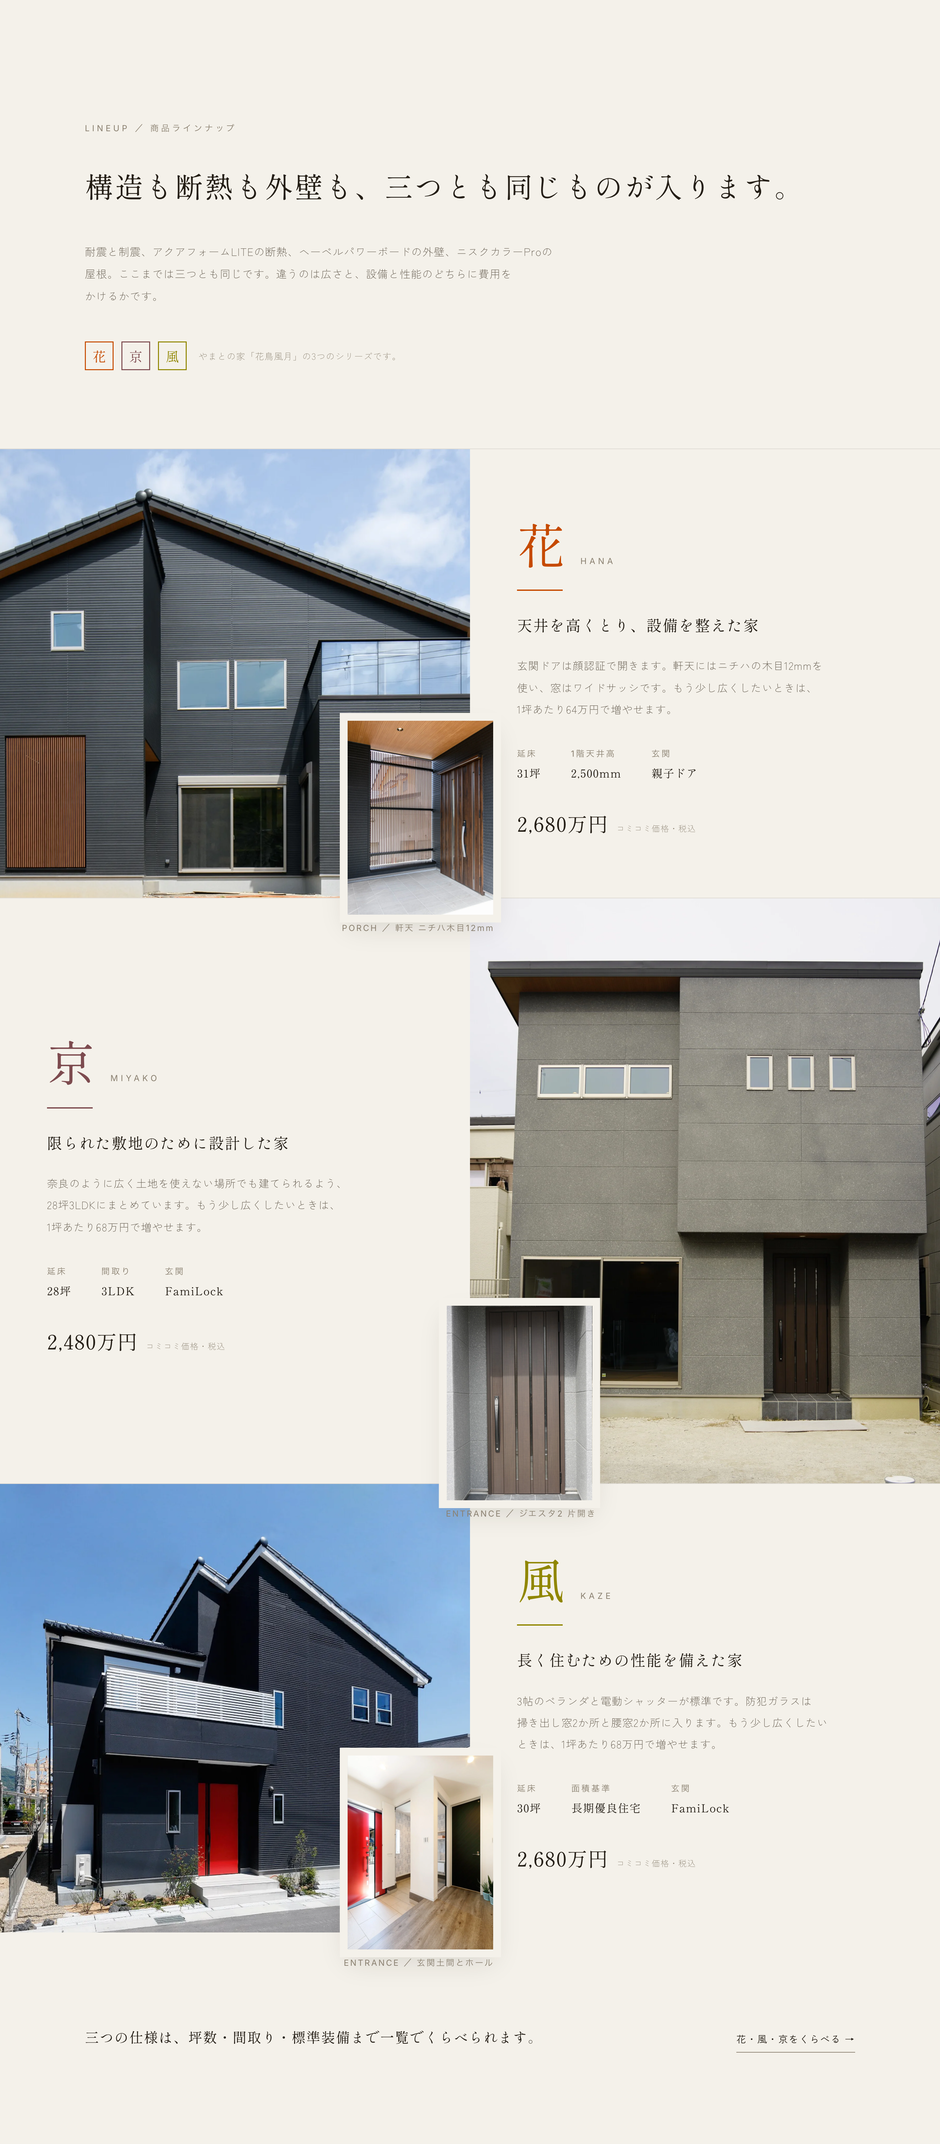
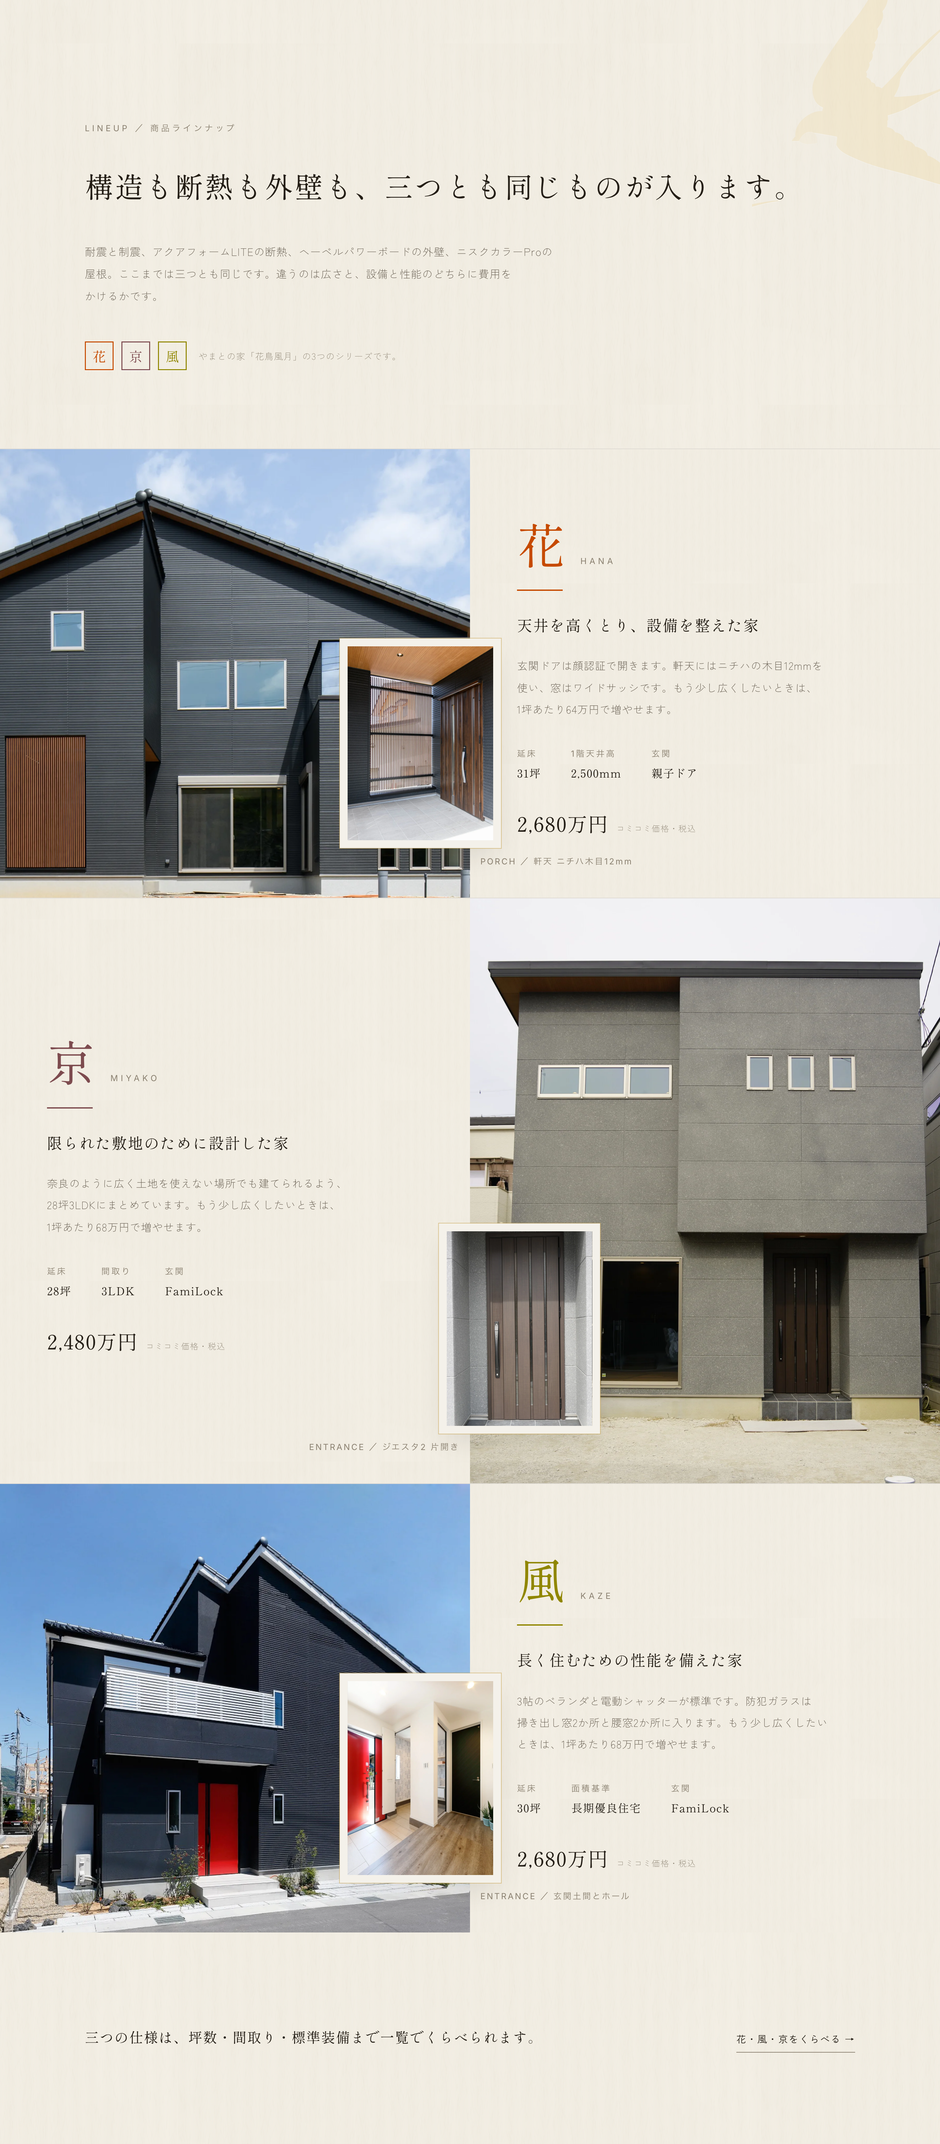
lineup: 地を紙にし、箔の燕と金の毛罫を入れた（FV表紙と同じ質を生成りの面で）
べた塗り #F4F1EA をやめ、page_kinari_letter_2400.webp を各ブロックに cover で敷く。
生成りを .62 で重ねて漉きムラを抑えた（そのままだと縞に見える）。

FV表紙の上質さの正体は テクスチャ＋箔の起伏＋隅から食い込む文様。
表紙は紅の面で金が立つので、こちらは生成りの面として同じ金を .26 で置く。
swallow1_foil を右上から食い込ませ、小図版の縁に金の毛罫を1本、
角印は紙に押した印影（内側の淡い影＋下側の白）に。

キャプションは必ず紙の側へ寄せる。写真に乗せると暗部で読めない（実際に潰れた）。
小図版は縦の境界（写真／パネル）だけをまたぎ、横の帯境界はまたがない。
またぐとキャプションが次の帯に食われる。

mobile-verify: 全10幅 FAIL 0 / WARN 0。

diff --git a/lineup_mock.html b/lineup_mock.html
@@ -19,7 +19,7 @@
    ------------------------------------------------------------------ */
 :root{
   --paper:#F4F1EA; --paper2:#EAE4D7; --sumi:#241E16; --sumi2:#5C5346; --sumi3:#8A8070;
-  --shu:#BD1B21;
+  --shu:#BD1B21; --gold:#C9A24B; --gold2:#B08A3C;
   --c-hana:#C64A00; --c-kyo:#7D4B4F; --c-kaze:#908600;   /* パンフ p36 実測 */
   --fm:"Shippori Mincho B1",serif;
   --fg:"Zen Kaku Gothic New",sans-serif;
@@ -33,7 +33,19 @@ body{margin:0;background:var(--paper);color:var(--sumi);
 img{display:block;max-width:100%}
 
 /* ───── 章の入り口 ───── */
-.op{padding:clamp(88px,13vw,190px) var(--gx) clamp(64px,9vw,120px)}
+.op{position:relative;overflow:hidden;padding:clamp(88px,13vw,190px) var(--gx) clamp(64px,9vw,120px);
+  background:linear-gradient(rgba(244,241,234,.62),rgba(244,241,234,.62)),
+    url("assets/std/page_kinari_letter_2400.webp") center/cover var(--paper);
+  background-size:auto, 62% auto}
+/* 箔の燕 — 表紙が隅から文様を食い込ませていたのと同じ働き。
+   表紙は紅の面で金が立つ。こちらは生成りの面なので、同じ金を囁く強さで置く。*/
+.op::after{content:"";position:absolute;z-index:0;pointer-events:none;
+  right:clamp(-90px,-6vw,-40px);top:clamp(-40px,-3vw,-16px);
+  width:clamp(210px,26vw,420px);aspect-ratio:1400/1337;
+  background:url("assets/std/swallow1_foil.png") center/contain no-repeat;
+  opacity:.26;filter:saturate(.86) brightness(1.06)
+    drop-shadow(0 1px 0 rgba(255,255,255,.8))}
+.op__inner{position:relative;z-index:1}
 .op__inner{max-width:1180px;margin:0 auto}
 .op__eyebrow{display:block;margin:0 0 clamp(26px,3.4vw,44px);font-family:var(--fn);font-weight:400;
   font-size:.8rem;letter-spacing:.3em;color:var(--sumi3);text-transform:uppercase}
@@ -51,9 +63,10 @@ img{display:block;max-width:100%}
 .seal{display:grid;place-items:center;width:44px;height:44px;
   font-family:var(--fm);font-weight:400;font-size:1.28rem;line-height:1;
   padding-top:.06em;letter-spacing:0}
-.seal--hana{color:var(--c-hana);box-shadow:inset 0 0 0 1.5px var(--c-hana)}
-.seal--kyo {color:var(--c-kyo); box-shadow:inset 0 0 0 1.5px var(--c-kyo)}
-.seal--kaze{color:var(--c-kaze);box-shadow:inset 0 0 0 1.5px var(--c-kaze)}
+.seal{box-shadow:inset 0 0 0 1.5px currentColor, inset 0 1px 2px rgba(36,30,22,.10), 0 1px 0 rgba(255,255,255,.7)}
+.seal--hana{color:var(--c-hana)}
+.seal--kyo {color:var(--c-kyo)}
+.seal--kaze{color:var(--c-kaze)}
 .seals__note{margin-left:6px;font-size:.86rem;letter-spacing:.05em;color:var(--sumi3)}
 
 /* ───── 帯 ───── */
@@ -74,17 +87,23 @@ img{display:block;max-width:100%}
 /* 小図版 — 版面の境界をまたいで置く。パンフレットが写真をノドに
    食い込ませていたのと同じ働き。大小の差が版に奥行きを作る。 */
 .band__detail{position:absolute;z-index:2;left:50%;transform:translateX(-84%);
-  bottom:clamp(-26px,-2vw,-18px);
+  bottom:clamp(58px,6.2vw,88px);
   width:clamp(148px,15.5vw,228px);aspect-ratio:3/4;overflow:hidden;
-  box-shadow:0 0 0 clamp(7px,.85vw,12px) var(--paper), 0 18px 40px rgba(36,30,22,.13)}
+  box-shadow:0 0 0 clamp(7px,.85vw,12px) var(--paper),
+    0 0 0 calc(clamp(7px,.85vw,12px) + 1px) rgba(201,162,75,.55),
+    0 18px 40px rgba(36,30,22,.13)}
 .band__detail img{width:100%;height:100%;object-fit:cover}
 .band--flip .band__detail{transform:translateX(-16%)}
-.band--flip .band__cap{transform:translateX(-16%)}
-.band__cap{position:absolute;z-index:2;left:50%;bottom:clamp(-56px,-4.4vw,-44px);
-  transform:translateX(-84%);white-space:nowrap;
+.band--flip .band__cap{left:auto;right:calc(50% + clamp(10px,1.1vw,18px))}
+/* キャプションは必ず紙の側へ。写真に乗せると暗部で読めなくなる */
+.band__cap{position:absolute;z-index:3;bottom:clamp(28px,3.2vw,46px);
+  left:calc(50% + clamp(10px,1.1vw,18px));white-space:nowrap;
   font-family:var(--fn);font-weight:400;font-size:.8rem;letter-spacing:.16em;color:var(--sumi3)}
 
-.band__panel{display:flex;flex-direction:column;justify-content:center;
+.band__panel{position:relative;display:flex;flex-direction:column;justify-content:center;
+  background:linear-gradient(rgba(244,241,234,.62),rgba(244,241,234,.62)),
+    url("assets/std/page_kinari_letter_2400.webp") center/cover var(--paper);
+  background-size:auto, 62% auto;
   padding:clamp(52px,6.4vw,96px) clamp(28px,5vw,86px)}
 .band__panel-in{max-width:30em}
 
@@ -122,7 +141,10 @@ img{display:block;max-width:100%}
 .band--kaze .band__rule{background:var(--c-kaze)}
 
 /* ───── 章の出口 ───── */
-.cl{padding:clamp(76px,10vw,140px) var(--gx)}
+.cl{position:relative;overflow:hidden;padding:clamp(76px,10vw,140px) var(--gx);
+  background:linear-gradient(rgba(244,241,234,.62),rgba(244,241,234,.62)),
+    url("assets/std/page_kinari_letter_2400.webp") center/cover var(--paper);
+  background-size:auto, 62% auto}
 .cl__inner{max-width:1180px;margin:0 auto;display:flex;flex-wrap:wrap;
   align-items:baseline;justify-content:space-between;gap:clamp(22px,3vw,44px)}
 .cl__t{margin:0;text-wrap:balance;line-break:strict;word-break:auto-phrase;font-family:var(--fm);font-weight:400;
